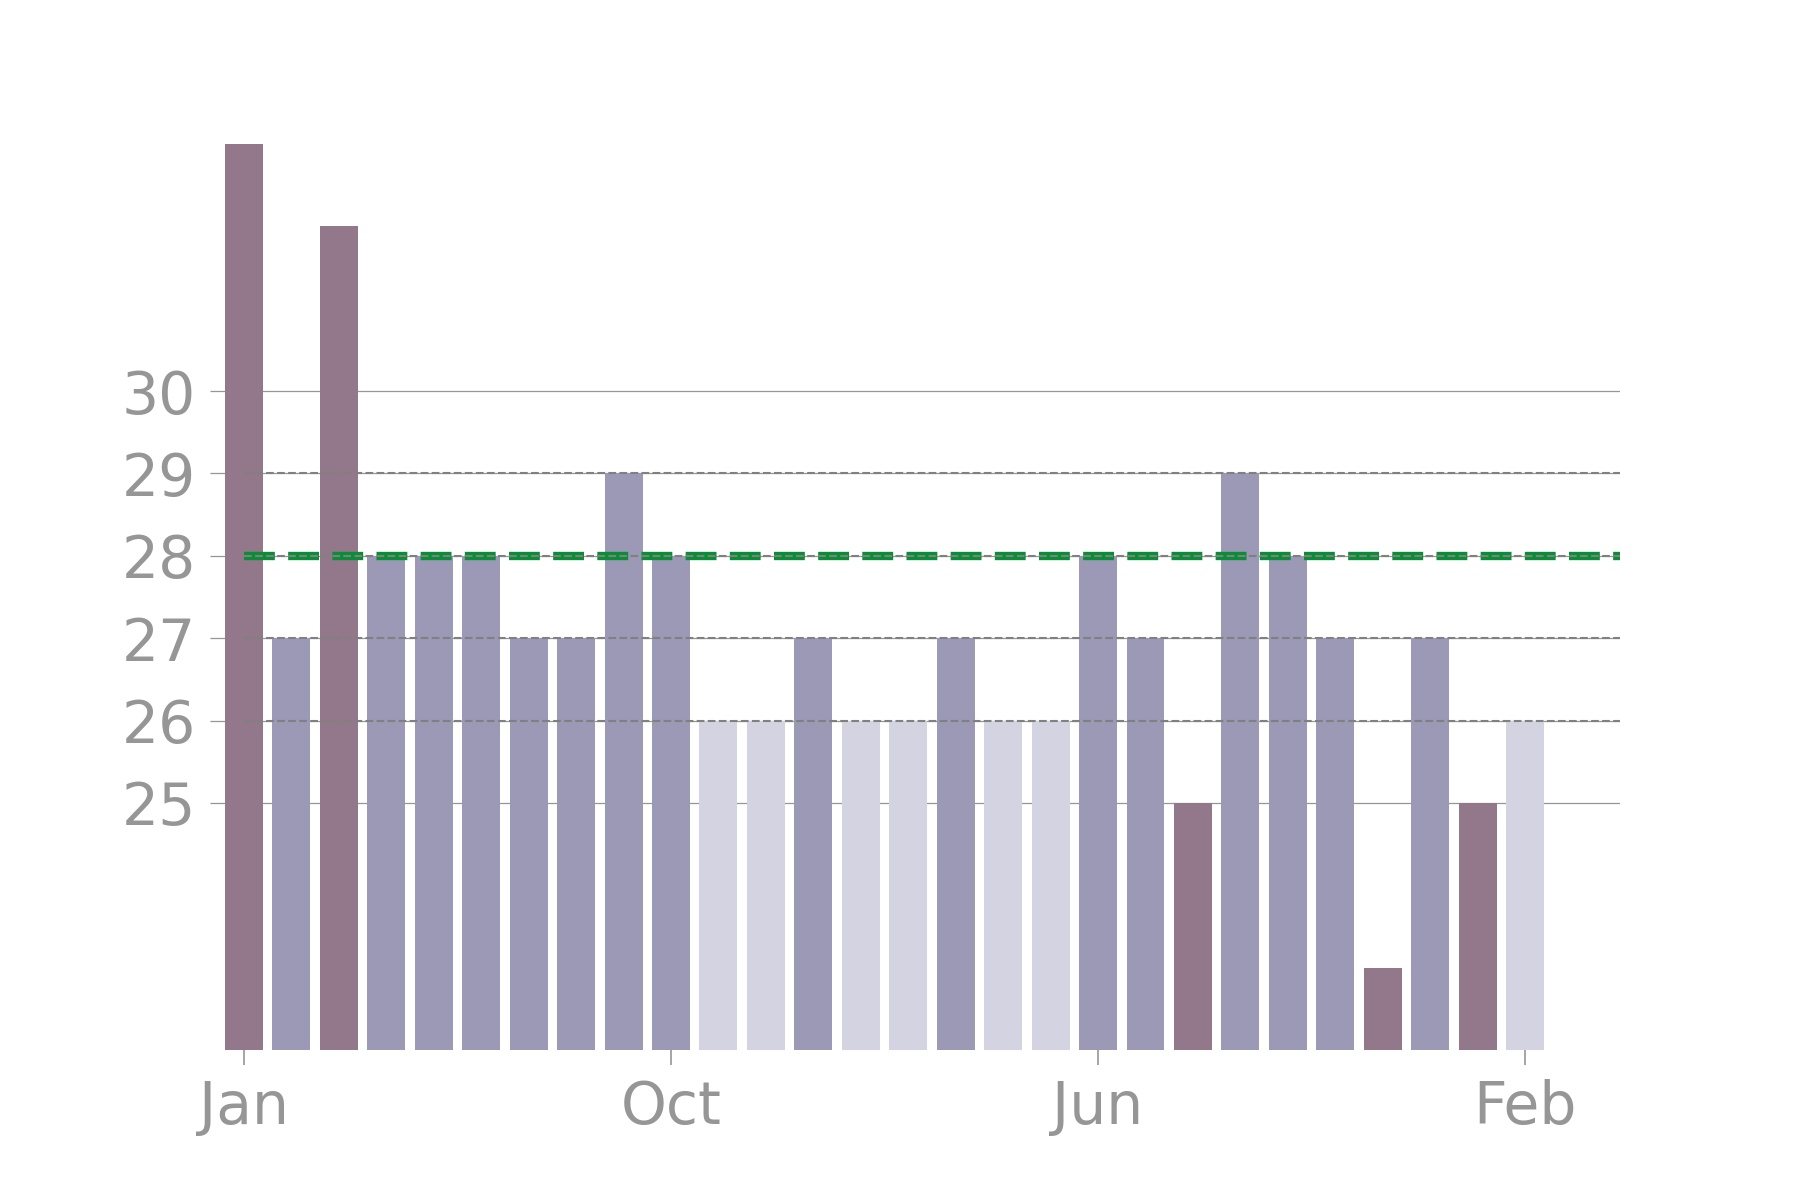
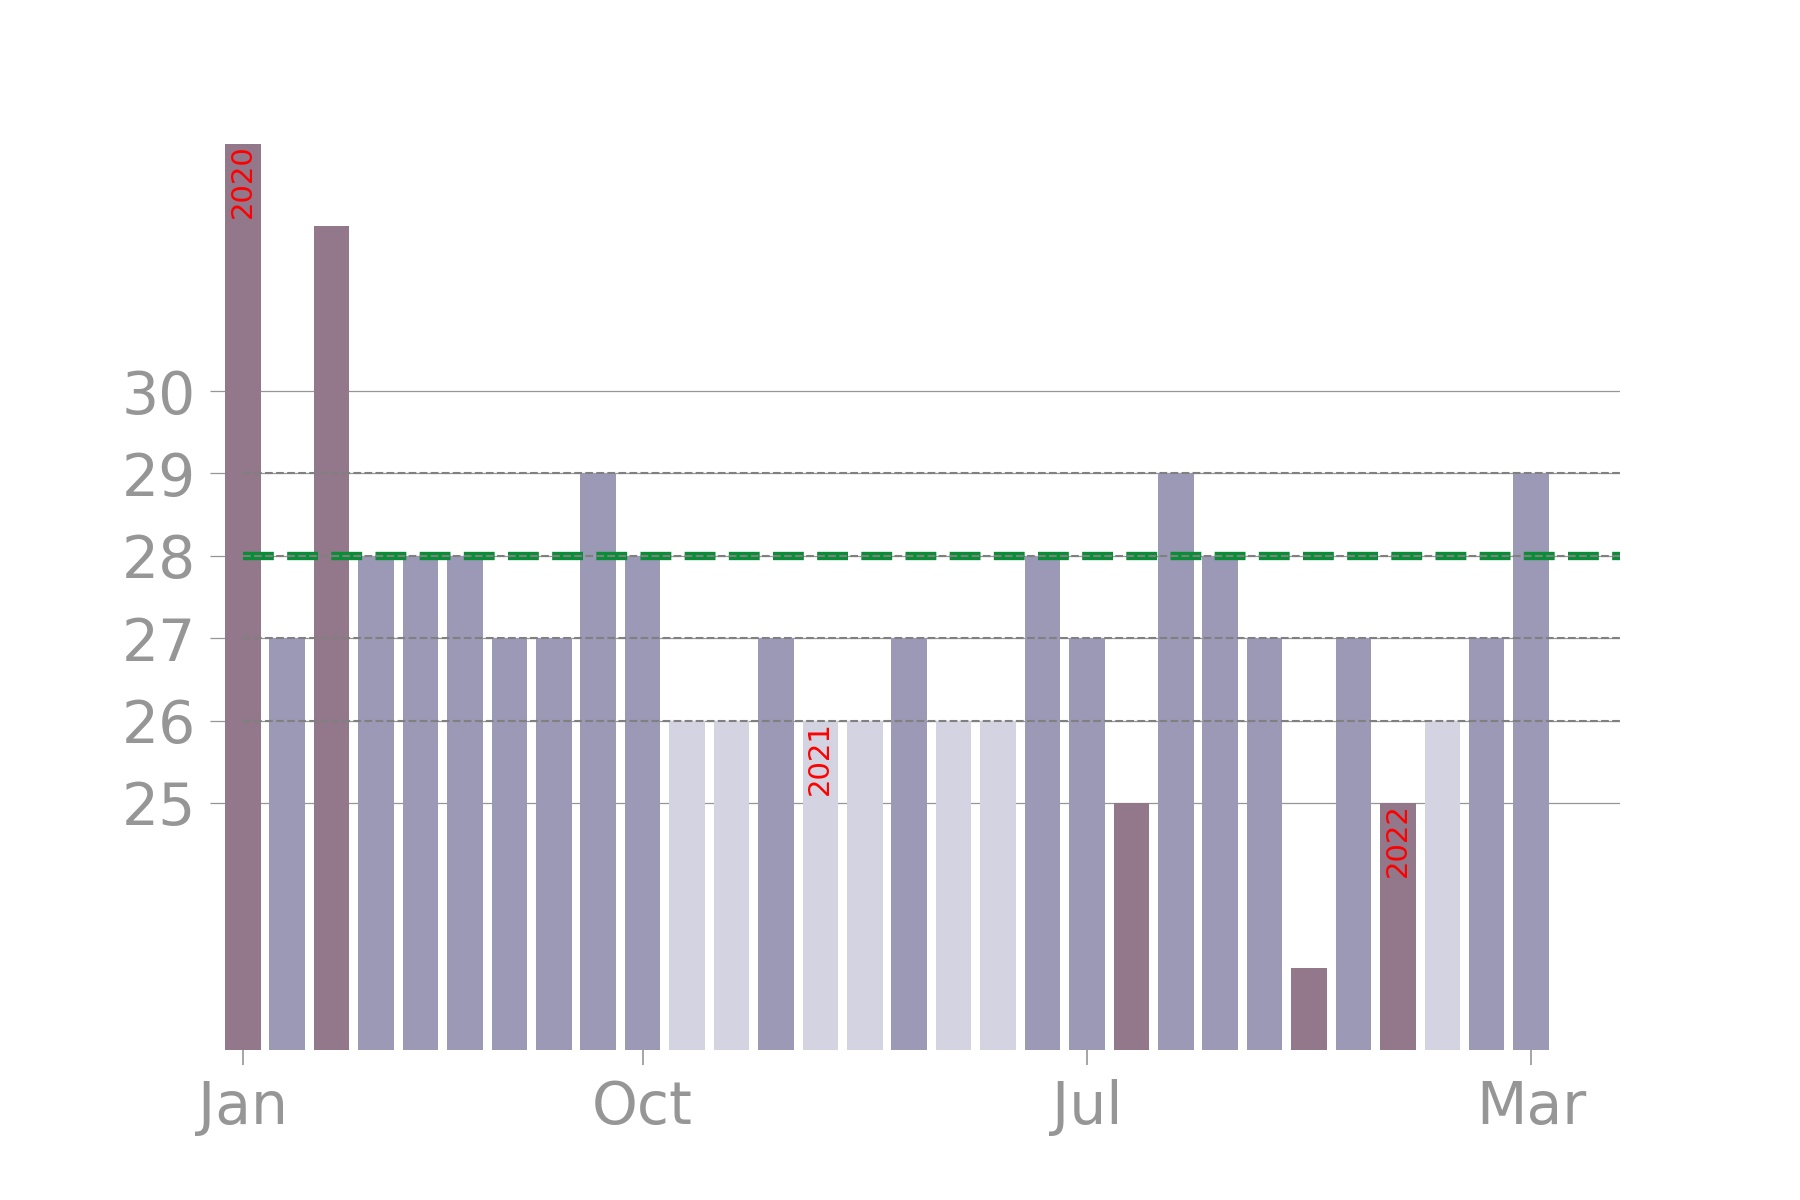
Add year labels

Changed region(s): [[0.1556, 0.185, 0.8711, 0.9558], [0.1244, 0.1233, 0.1556, 0.185]]

diff --git a/utils.py b/utils.py
@@ -7,7 +7,7 @@ plt.style.use(dufte.style)
 class date:
     """
     Implement date algebra: add date, subtract two dates
-    
+
     '8/7/2021' + 1 = '8/8/2021'
     '8/8/2021' - '/8/7/2021' = 1
     """
@@ -26,14 +26,14 @@ class date:
         t0 = time.mktime(self.struct_time)
         t1 = time.mktime(another_date.struct_time)
         return int((t0-t1) / 24 / 3600)
-    
+
 def read_date(period_dir):
     L = []
     with open(period_dir, 'r') as f:
         while True:
             a = f.readline()
             if a == '':
-                break        
+                break
             L.append(a.replace('\n', ''))
     return L
 
@@ -43,7 +43,7 @@ def compute_lap(date_list):
     for l in date_list:
         date = l.split('/')
         t = (int(date[2]), int(date[0]), int(date[1]), 0, 0, 0, 0, 0, 0)
-        if count == 0:        
+        if count == 0:
             t0 = time.mktime(t)
             count += 1
         else:
@@ -59,23 +59,26 @@ def plot_period(date_list, lap):
     Visualize period data using bar plot.
     Features:
         - 2 scale options ('all' and 'year'), all is default
-        - color the bars base on the deviation from 28 days (red, yellow and gray)
-        - ...
-    
+        - color the bars based on the deviation from 28 days
+        - indicate year start on top of each Jan bar
+
     Args:
     date_list -- data read from period.txt, return value of read_date()
     lap -- lapse day of each period
-    
+
     Returns:
-    Nothing    
+    Nothing
+
+    Edit:
+    05172022 -- Add year text
     """
-    
+
     l = len(date_list)
     x = np.arange(0, l-1)
     ind = np.floor(np.linspace(0, l-2, 4)).astype('int')
-    
+
     # generate color list
-    
+
     c = []
     for lap_1 in lap:
         d = abs(lap_1-28)
@@ -85,7 +88,7 @@ def plot_period(date_list, lap):
             c.append('#D4D3E2')
         else:
             c.append('#93778A')
-    
+
     fig, ax = plt.subplots(dpi=300)
     ax.bar(x, lap, color=c)
     ax.set_xticks(x[ind])
@@ -93,18 +96,29 @@ def plot_period(date_list, lap):
     for i in range(26, 30):
         if i == 28:
             ax.plot([0, l], [28, 28], color='#098d36', ls='--', lw=2)
-        ax.plot([0, l], [i, i], ls='--', color='gray', lw=0.5)     
+        ax.plot([0, l], [i, i], ls='--', color='gray', lw=0.5)
     dufte.legend()
     ax.set_ylim([22, np.array(lap).max()])
     ax.set_yticks(range(25, 31))
     ax.set_yticklabels(range(25, 31))
-    
+
+    # year label
+    years = [] # avoid labeling years twice
+    for xi in x:
+        month, date, year = date_list[xi].split("/")
+        if int(month) == 1 and year not in years:
+            ax.annotate(year, (xi, lap[xi]),
+                        horizontalalignment="center", verticalalignment="top",
+                        fontsize=7, color='red', rotation="vertical")
+            years.append(year)
+    return ax
+
 def date_to_month(date_list, ind):
     """
     Convert date list to month list (strings)
     e.g. 2/28/2020 -> 'Feb'
     """
-    mapper = {1: 'Jan', 2: 'Feb', 3: 'Mar', 4: 'Apr', 5: 'May', 6: 'Jun', 
+    mapper = {1: 'Jan', 2: 'Feb', 3: 'Mar', 4: 'Apr', 5: 'May', 6: 'Jun',
               7: 'Jul', 8: 'Aug', 9: 'Sep', 10: 'Oct', 11: 'Nov', 12: 'Dec'}
     month_list = []
 
@@ -113,5 +127,8 @@ def date_to_month(date_list, ind):
         month = int(date.split('/')[0])
         month_str = mapper[month]
         month_list.append(month_str)
-    
+
     return month_list
+
+if __name__=="__main__":
+    pass

diff --git a/period_visualization.py b/period_visualization.py
@@ -1,38 +1,9 @@
 # %% codecell
 from utils import *
+import numpy as np
 # %% codecell
 period_dir = r'period.txt'
 date_list = read_date(period_dir)
 lap = compute_lap(date_list)
 plot_period(date_list, lap)
 plt.savefig("period.jpg")
-# %% markdown
-# ## Development
-#
-# - deal with missing data
-# - show data at different scale (year/month)
-# %% codecell
-def fix_missing_data(lap):
-    """
-    If for some months data are missing, estimate by the mean.
-    For example, an element in lap is 60, divide into 2 months of 30 days.
-    """
-
-    for i, l in enumerate(lap):
-        nMonth = np.around(l/28)
-        if nMonth > 1:
-            # recursive
-            divided = []
-
-# %% codecell
-# test DataFrame
-import pandas as pd
-date_list = read_date(period_dir)
-data = pd.DataFrame({'date_string': date_list})
-
-lap = [np.nan]
-for i in data.index[:-1]:
-    lap_item = date(data['date_string'][i+1]) - date(data['date_string'][i])
-    lap.append(lap_item)
-
-data['lap'] = lap

diff --git a/README.md b/README.md
@@ -1,2 +1,3 @@
 # Period-visualizer
 ![](period.jpg)
+[](period.txt)
